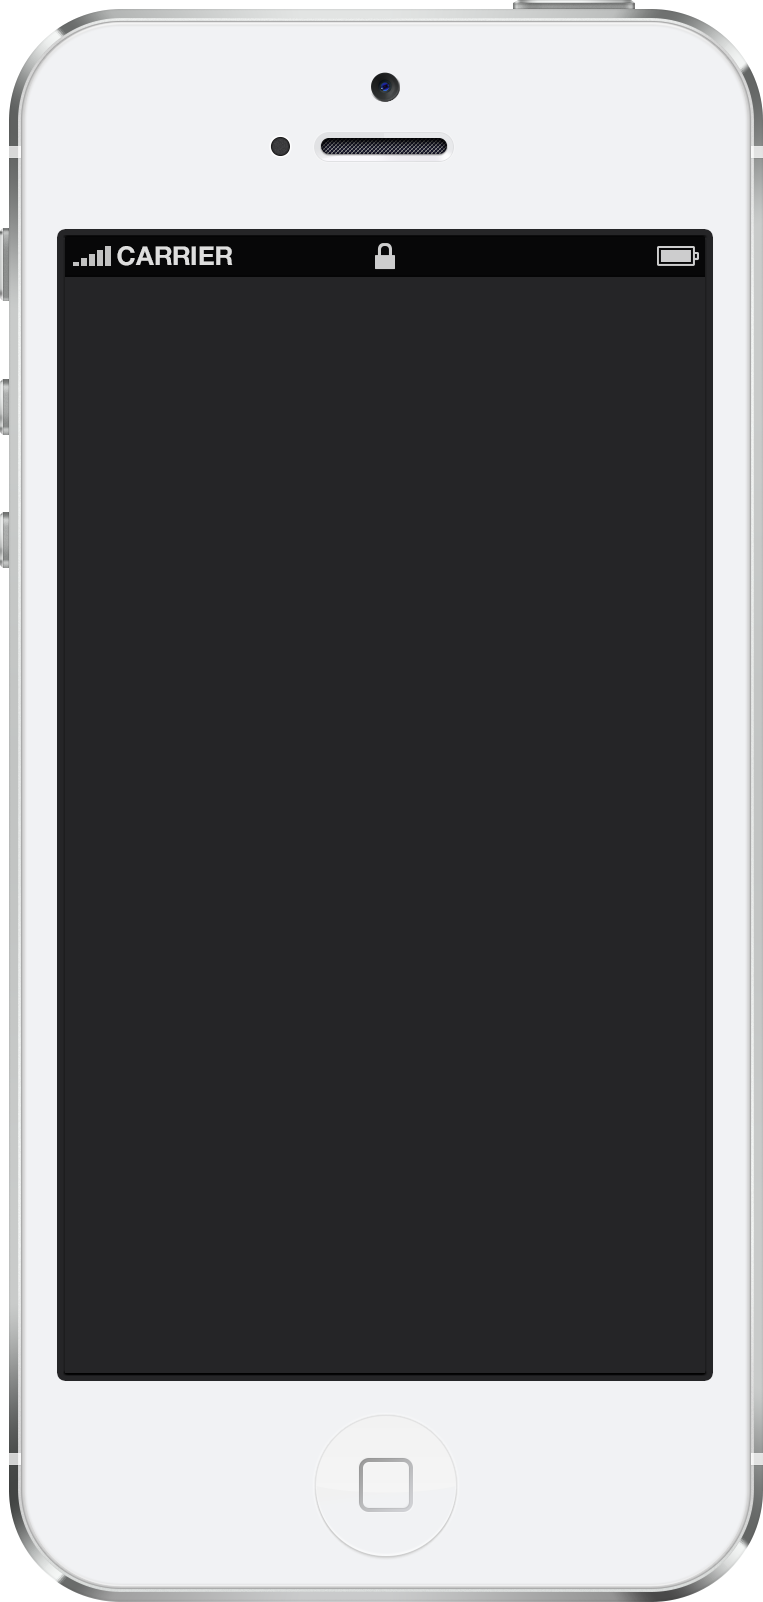
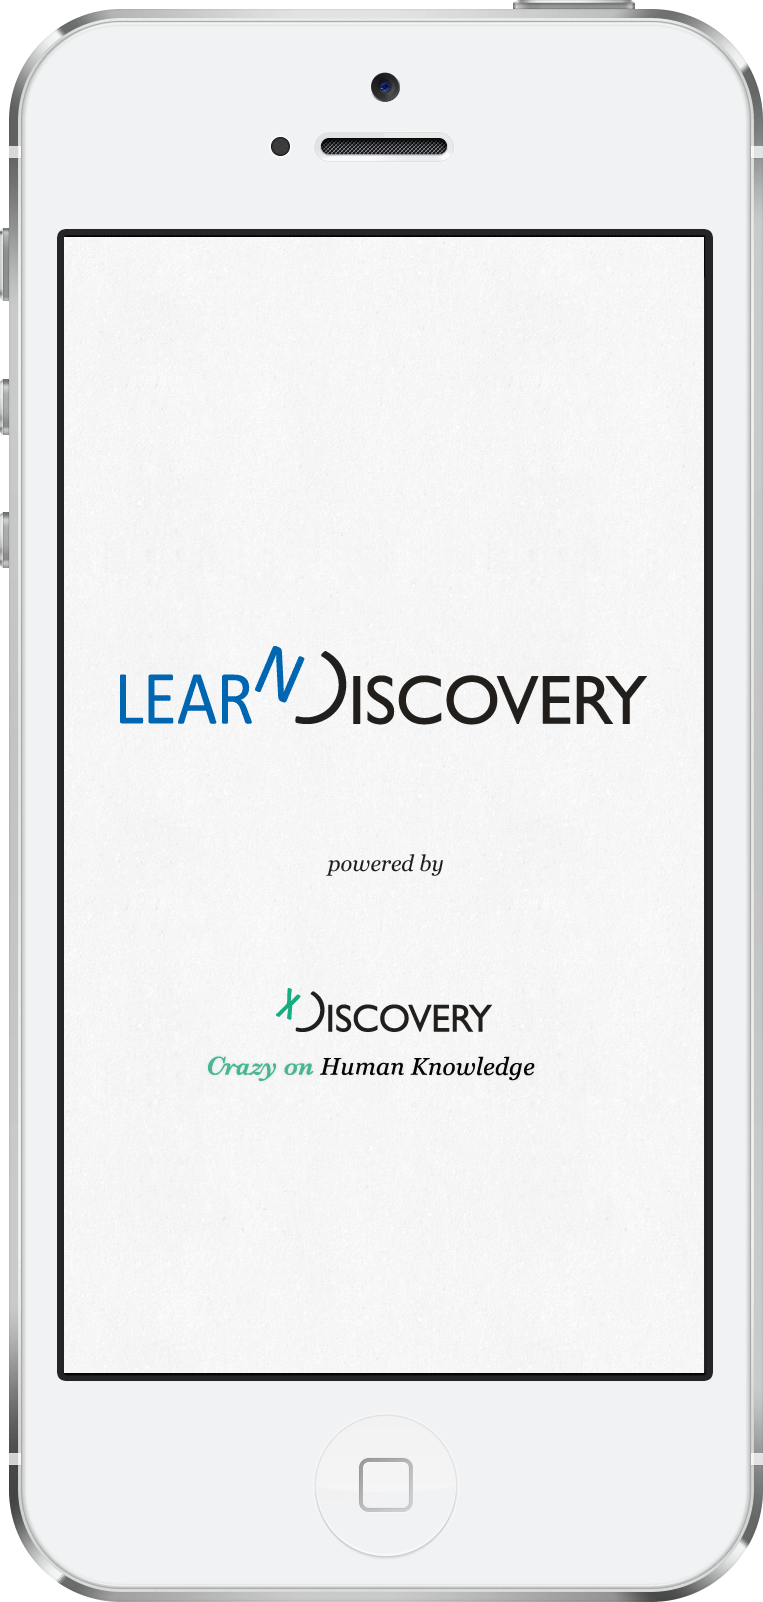
Correct typos in meta, fix missing hyperlinks to apple store, fixed empty image iPhone

diff --git a/xdimension_web/xdw_web/templates/frontend/index.html b/xdimension_web/xdw_web/templates/frontend/index.html
@@ -22,13 +22,14 @@
 
 	<link href="http://fonts.googleapis.com/css?family=Source+Sans+Pro:300,400" rel="stylesheet" type="text/css">
 	<link rel="stylesheet" href="{{ STATIC_URL }}frontend/styles/main.css">
+	<meta property="author" content="Luigi Assom">
 	{% block extrahead %}{% endblock %}
         {% page_attribute "meta_description" as page_meta_description %}
         <meta property="description" content="{{meta_items.description|default:page_meta_description }}">
         {% for property, content in meta.items %}{% if property != "description" %}<meta property="{{ property }}" content="{{ content }}">{% endif %}
         {% endfor %}
         {% page_attribute "meta_keywords" as page_meta_keywords %}
-        <meta property="description" content="{{meta_items.keywords|default:page_meta_keywords }}">
+        <meta property="keywords" content="{{meta_items.keywords|default:page_meta_keywords }}">
         {% for property, content in meta.items %}{% if property != "keywords" %}<meta property="{{ property }}" content="{{ content }}">{% endif %}
         {% endfor %}
 	{% render_block "css" %}
@@ -87,6 +88,47 @@
 				</section>
 				<footer class="xd-site-footer" ng-cloak="" ng-hide="site.hideFooter">
 				  {% static_placeholder "footer" %}
+				<!-- prova per footer ... 
+	
+	<div class="row">
+						<div class="small-3 large-3 columns">
+							<h4>Company</h4>
+							<p><a href="">Who we are</a></p>
+							<p><a href="">What we do</a></p>
+							<p><a href="">Why we do it</a></p>
+						</div>
+						<div class="small-3 large-3 columns">
+							<h4>Services</h4>
+							<p><a href="">Discovery vs Search</a></p>
+							<p><a href="">Discovery Engine for Business</a></p>
+							<p><a href="">Portable Discovery Engine</a></p>
+							<p><a href="">The Atlas Project</a></p>
+						</div>
+						<div class="small-3 large-3 columns">
+							<h4>Atlas</h4>
+							<p><a href="">Learn Discovery Atlas</a></p>
+						</div>
+						<div class="small-3 large-3 columns">
+							<h4>Contacts</h4>
+							<p><a href="">Contact Us</a></p>
+							<p><a href="">Facebook</a></p>
+							<p><a href="">Twitter</a></p>
+						</div>
+					</div>
+
+					<div class="legals">
+						<div class="row">
+							<div class="small-12 columns">
+								<ul class="right inline-list">
+									<li><a href="">Term of Service</a></li>
+									<li><a href="">Patent-Pending U.S. Serial No. 14/109,235</a></li>
+								</ul>
+							</div>
+						</div>
+					</div>
+					-->
+
+				
 				</footer>
 
 			</div><!-- .inner-wrap -->

diff --git a/frontend/app/index.html b/frontend/app/index.html
@@ -29,13 +29,14 @@
 	<link rel="stylesheet" href="/styles/main.css">
 	<!-- endbuild -->
 	<!-- @if ENV='dist' -->
+	<meta property="author" content="Luigi Assom">
 	{% block extrahead %}{% endblock %}
         {% page_attribute "meta_description" as page_meta_description %}
         <meta property="description" content="{dj{meta_items.description|default:page_meta_description }dj}">
         {% for property, content in meta.items %}{% if property != "description" %}<meta property="{dj{ property }dj}" content="{dj{ content }dj}">{% endif %}
         {% endfor %}
         {% page_attribute "meta_keywords" as page_meta_keywords %}
-        <meta property="description" content="{dj{meta_items.keywords|default:page_meta_keywords }dj}">
+        <meta property="keywords" content="{dj{meta_items.keywords|default:page_meta_keywords }dj}">
         {% for property, content in meta.items %}{% if property != "keywords" %}<meta property="{dj{ property }dj}" content="{dj{ content }dj}">{% endif %}
         {% endfor %}
 	{% render_block "css" %}
@@ -135,8 +136,11 @@
 				<footer class="xd-site-footer" ng-cloak ng-hide="site.hideFooter">
 				<!-- @if ENV='dist' -->
 				  {% static_placeholder "footer" %}
+		
 				<!-- @endif -->
+				
 				<!-- @if ENV!='dist' -->
+					
 					<div class="row">
 						<div class="small-3 large-3 columns">
 							<h4>Company</h4>
@@ -167,12 +171,15 @@
 						<div class="row">
 							<div class="small-12 columns">
 								<ul class="right inline-list">
-									<!--<li><a href="">Term of Service</a></li>-->
+									<!--
+									<li><a href="">Term of Service</a></li>-->
 									<li><a href="">Patent-Pending U.S. Serial No. 14/109,235</a></li>
 								</ul>
 							</div>
 						</div>
 					</div>
+
+			
 				<!-- @endif -->
 				</footer>
 

diff --git a/xdimension_web/xdw_web/templates/frontend/views/graph.html b/xdimension_web/xdw_web/templates/frontend/views/graph.html
@@ -176,7 +176,7 @@
 	<p class="title">Create and Save your own visual references with the Portable Discovery Engine applied to Wikipedia.</p>
 	<img src="{{ STATIC_URL }}frontend/images/learn-discovery-logo.svg" alt="Learn xDiscovery" width="50%">
 	<p>for iPhone and iPad</p>
-	<a href="" target="_blank">
+	<a href="https://itunes.apple.com/us/app/learndiscovery-discover-map/id859954749?mt=8" target="_blank">
 		<img src="{{ STATIC_URL }}frontend/images/button-app-store.svg" width="130" alt="Available on the App Store">
 	</a>
 	<div style="margin-top:2em">

diff --git a/frontend/app/views/graph.html b/frontend/app/views/graph.html
@@ -185,7 +185,7 @@
 	<p class="title">Create and Save your own visual references with the Portable Discovery Engine applied to Wikipedia.</p>
 	<img src="/images/learn-discovery-logo.svg" alt="Learn xDiscovery" width="50%">
 	<p>for iPhone and iPad</p>
-	<a href="" target="_blank">
+	<a href="https://itunes.apple.com/us/app/learndiscovery-discover-map/id859954749?mt=8" target="_blank">
 		<img src="/images/button-app-store.svg" width="130" alt="Available on the App Store">
 	</a>
 	<div style="margin-top:2em;">

diff --git a/xdimension_web/xdw_web/templates/frontend/views/atlas.html b/xdimension_web/xdw_web/templates/frontend/views/atlas.html
@@ -105,7 +105,7 @@
 				No results for
 				<span ng-repeat="q in search.lastQuery" ng-bind="q" class="term"></span>
 			</p>
-			<p>You may want to Make &amp; Share your maps with LearnDiscovery mobile.</p>
+			<p>You may want to Make &amp; Share your maps with <a href="https://itunes.apple.com/us/app/learndiscovery-discover-map/id859954749?mt=8" target="_blank">LearnDiscovery</a> mobile.</p>
 			<img src="{{ STATIC_URL }}frontend/images/nothing-found.svg" alt="" width="320">
 		</div>
 

diff --git a/frontend/app/views/atlas.html b/frontend/app/views/atlas.html
@@ -105,7 +105,7 @@
 				No results for
 				<span ng-repeat="q in search.lastQuery" ng-bind="q" class="term"></span>
 			</p>
-			<p>You may want to Make &amp; Share your maps with LearnDiscovery mobile.</p>
+			<p>You may want to Make &amp; Share your maps with <a href="https://itunes.apple.com/us/app/learndiscovery-discover-map/id859954749?mt=8" target="_blank">LearnDiscovery</a> mobile.</p>
 			<img src="/images/nothing-found.svg" alt="" width="320">
 		</div>
 
